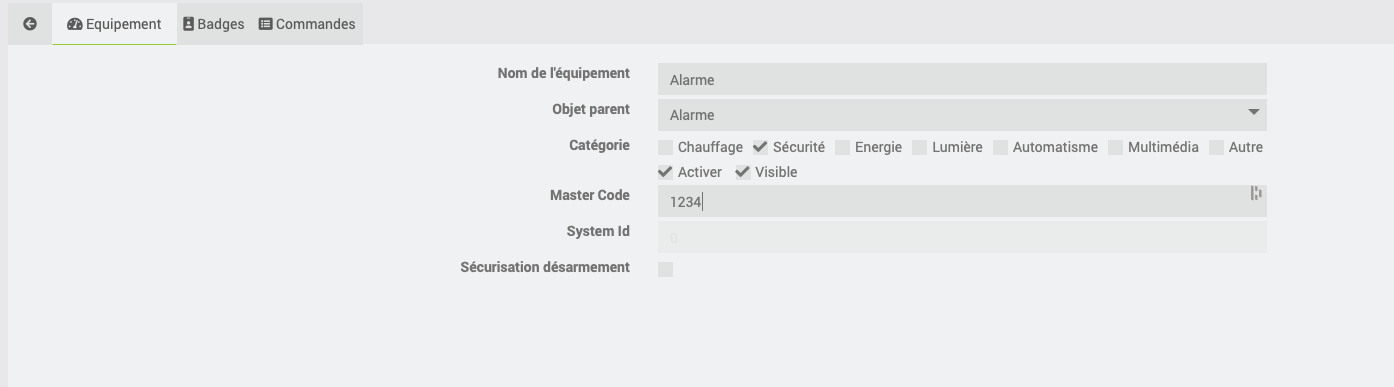
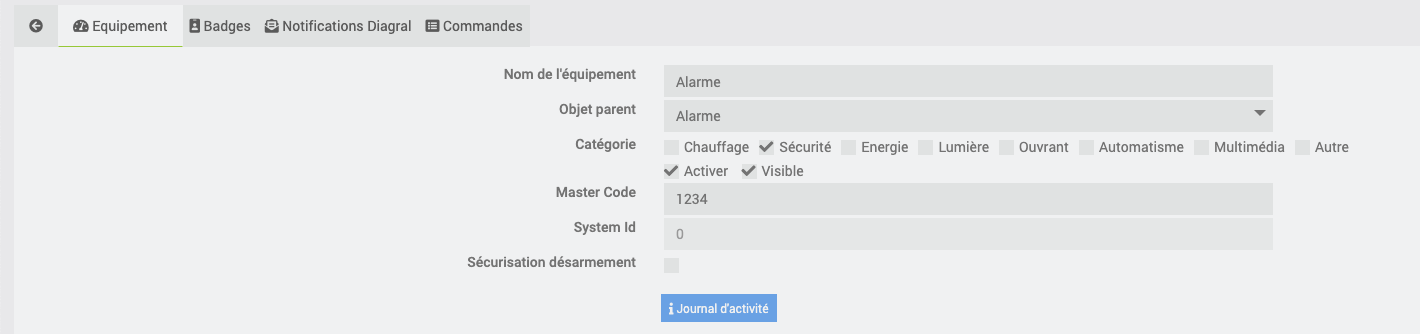
Mise à jour pour Diagral v1.3.0 BETA

diff --git a/fr_FR/Diagral_eOne/documentation.md b/fr_FR/Diagral_eOne/documentation.md
@@ -204,6 +204,14 @@ Il existe actuellement plusieurs commandes qui sont décrites ci-dessous :
     -   _Exemple "code d'accès principal"_
 -   IMPORT - Dernier utilisateur : Dernière methode ayant intervenu sur l'alarme, reçue par message (mail ou sms)
 
+# Journal d'activité
+
+> <span style="color:red">__FONCTIONNALITE UNIQUEMENT EN BETA POUR LE MOMENT__</span>
+
+Sur la page de configuration de l'équipement, vous avez un bouton vous permettant d'ouvrir une modale avec l'ensemble des evenements des 30 précédents jours.
+
+![Journal d'activité](images/ModaleActivity.png)
+
 # Dashboard
 
 Le plugin inclus un dashboard qui permet de :
@@ -219,9 +227,6 @@ Le plugin inclus un dashboard qui permet de :
 ![Dashboard](images/Dashboard.png)
 
 # HomeBridge
-
-> <span style="color:red">__FONCTIONNALITE UNIQUEMENT EN BETA POUR LE MOMENT__</span>
-
 
 Le plugin est compatible avec HomeBridge (merci à Nebz sont auteur) et vous permet ainsi de piloter votre alarme avec Homekit.
 

diff --git a/fr_FR/Diagral_eOne/changelog.md b/fr_FR/Diagral_eOne/changelog.md
@@ -2,11 +2,15 @@
 
 __Lorsque aucunes informations ne sont disponibles sur le changelog, cela implique un changement de documentation uniquement__
 
-# 2020-08-04 - v1.2.7 (BETA)
+# 2020-10-04 - v1.3.0 (BETA)
+
+- Intégration d'un listing des evenements sur la page de l'équipement
+
+# 2020-08-04 - v1.2.7
 
 - Changement de l'espace de stockage des fichiers de cache vers le /data pour se conformer à Jeedom V4 et son nettoyage de fichier
 
-# 2020-08-04 - v1.2.6 (BETA)
+# 2020-08-04 - v1.2.6
 
 - Intégration de l'alarme dans HomeBridge (cf. Documentation)
 - Modification de la commande "Statut" qui devient la commande "Mode". Elle permet de connaitre le mode actif (pensez à changer vos scénarios qui utilise cette commande)
